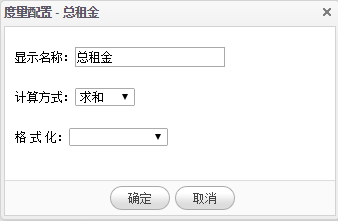
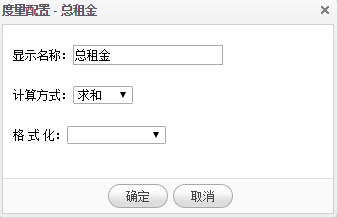
Updates 透视表.md
Auto commit by GitBook Editor

Changed region(s): [[0.0, 0.0, 1.0, 1.0], [0.4438, 0.578, 0.503, 0.6606], [0.6805, 0.8532, 0.7101, 0.9358]]

diff --git a/透视表.md b/透视表.md
@@ -14,5 +14,5 @@
 
 4.点击方块菜单，选择配置菜单，实现对度量的显示名、计算方式、格式化进行设置。
 
-
+![](/assets/import504.png)
 
